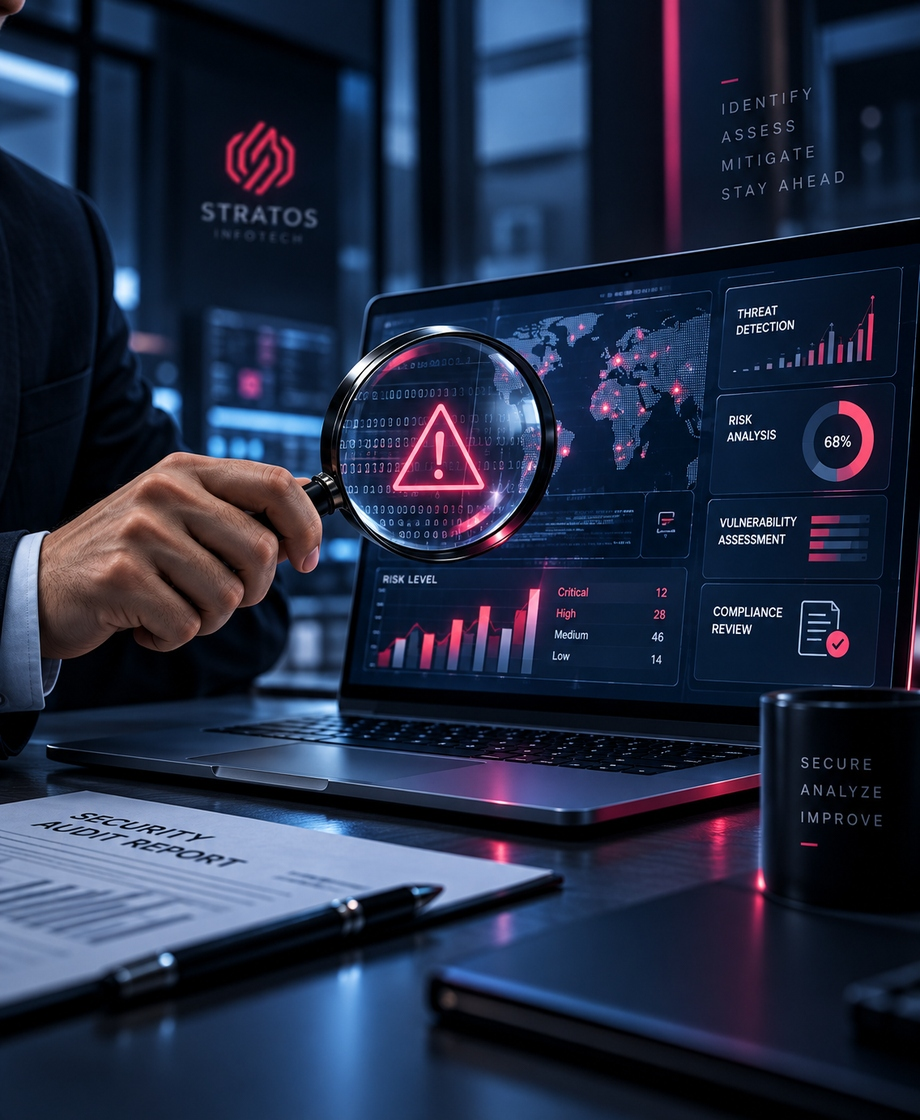
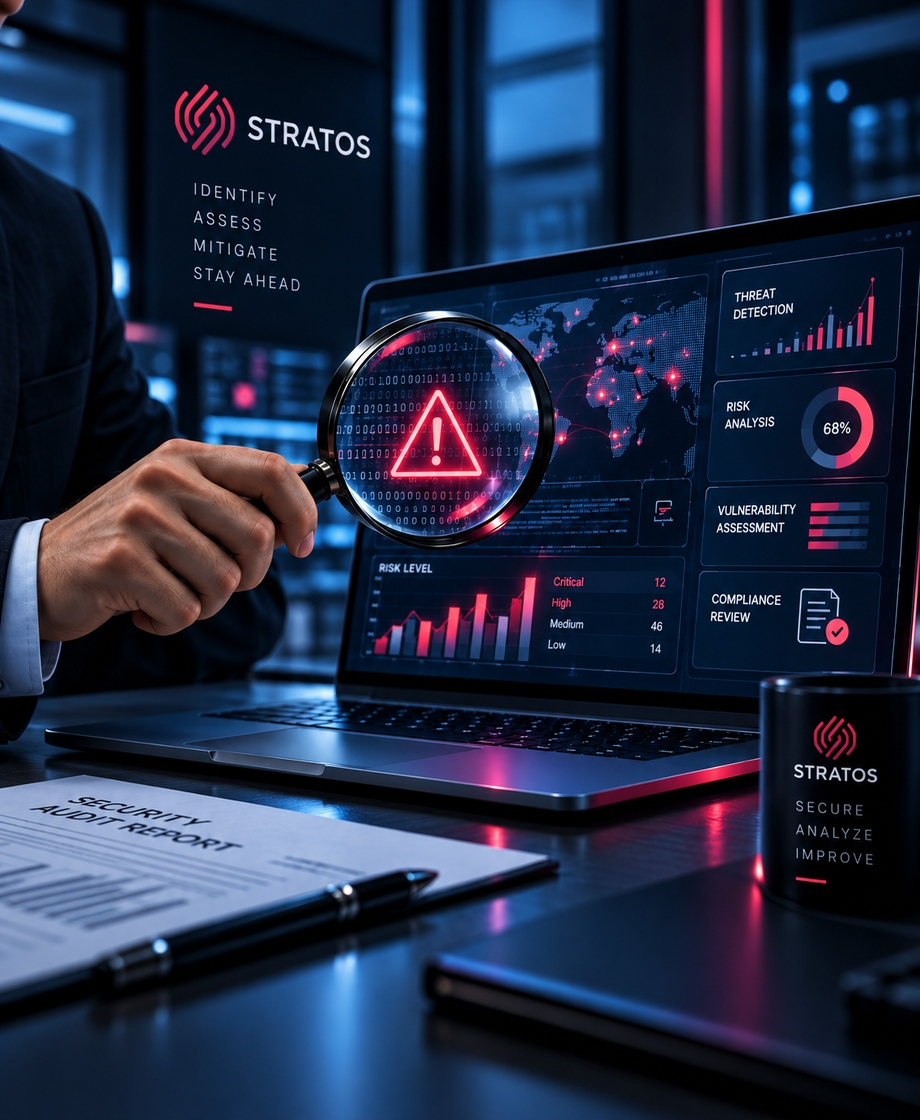
image change

diff --git a/src/components/home/why-stratos.tsx b/src/components/home/why-stratos.tsx
@@ -111,6 +111,76 @@ function NetworkPattern() {
   );
 }
 
+// Diagonals that run just past the 400x300 viewBox edges, so each comet
+// spends most of its short loop actually crossing the visible card.
+const SHOOTING_STARS = [
+  { d: "M -20 300 L 420 -40", duration: 4.2, delay: 0 },
+  { d: "M 420 230 L -40 -30", duration: 5, delay: -1.8 },
+  { d: "M -20 50 L 420 260", duration: 4.6, delay: -3 },
+];
+
+function ShootingStars() {
+  return (
+    <svg
+      viewBox="0 0 400 300"
+      preserveAspectRatio="xMidYMid slice"
+      className="pointer-events-none absolute inset-0 h-full w-full opacity-90"
+      aria-hidden
+    >
+      <defs>
+        <radialGradient id="shoot-head-glow" cx="50%" cy="50%" r="50%">
+          <stop offset="0%" stopColor="var(--color-brand-700)" stopOpacity="1" />
+          <stop offset="45%" stopColor="var(--color-brand-500)" stopOpacity="0.95" />
+          <stop offset="100%" stopColor="var(--color-brand-600)" stopOpacity="0" />
+        </radialGradient>
+        <filter id="shoot-blur" x="-150%" y="-150%" width="400%" height="400%">
+          <feGaussianBlur stdDeviation="1.4" />
+        </filter>
+        <linearGradient id="shoot-trail" x1="0" y1="0" x2="1" y2="0">
+          <stop offset="0%" stopColor="var(--color-brand-600)" stopOpacity="0" />
+          <stop offset="100%" stopColor="var(--color-brand-700)" stopOpacity="1" />
+        </linearGradient>
+      </defs>
+
+      {SHOOTING_STARS.map((star, i) => (
+        <path key={i} id={`shoot-path-${i}`} d={star.d} fill="none" stroke="none" />
+      ))}
+
+      {SHOOTING_STARS.map((star, i) => (
+        <g key={i} className="motion-spark">
+          <line
+            x1={-40}
+            y1={0}
+            x2={0}
+            y2={0}
+            stroke="url(#shoot-trail)"
+            strokeWidth={3}
+            strokeLinecap="round"
+          >
+            <animateMotion
+              dur={`${star.duration}s`}
+              begin={`${star.delay}s`}
+              repeatCount="indefinite"
+              rotate="auto"
+            >
+              <mpath href={`#shoot-path-${i}`} />
+            </animateMotion>
+          </line>
+          <circle r={4} fill="url(#shoot-head-glow)" filter="url(#shoot-blur)">
+            <animateMotion
+              dur={`${star.duration}s`}
+              begin={`${star.delay}s`}
+              repeatCount="indefinite"
+            >
+              <mpath href={`#shoot-path-${i}`} />
+            </animateMotion>
+          </circle>
+        </g>
+      ))}
+    </svg>
+  );
+}
+
 export function WhyStratos() {
   return (
     <section className="relative overflow-hidden bg-white py-24 sm:py-28">
@@ -149,6 +219,7 @@ export function WhyStratos() {
               <div className="pointer-events-none absolute inset-0 opacity-25 transition-opacity duration-500 group-hover:opacity-45">
                 <NetworkPattern />
               </div>
+              <ShootingStars />
 
               <ul className="relative grid grid-cols-1 gap-2 sm:grid-cols-2">
                 {values.map((value) => (

diff --git a/src/components/about/products-grid.tsx b/src/components/about/products-grid.tsx
@@ -6,15 +6,15 @@ import { Package } from "lucide-react";
 import { cn } from "@/lib/cn";
 
 const CIRCUIT_TRACES = [
-  { d: "M 300 40 H 170 V 95 H 78", duration: 4.2 },
-  { d: "M 300 120 H 210 V 161 H 78", duration: 5.1 },
+  { d: "M 260 18 H 140 V 52 H 42", duration: 4.2 },
+  { d: "M 260 88 H 190 V 52 H 42", duration: 5.1 },
 ];
 
 const CIRCUIT_PADS = [
-  { x: 300, y: 40 },
-  { x: 170, y: 95 },
-  { x: 300, y: 120 },
-  { x: 210, y: 161 },
+  { x: 260, y: 18 },
+  { x: 140, y: 52 },
+  { x: 260, y: 88 },
+  { x: 190, y: 52 },
 ];
 
 function CircuitDecoration({
@@ -29,18 +29,26 @@ function CircuitDecoration({
 
   return (
     <svg
-      viewBox="0 0 300 220"
+      viewBox="0 0 260 110"
       className={cn(
-        "pointer-events-none absolute h-56 w-72",
-        mirror ? "top-0 left-0 -scale-x-100" : "right-0 bottom-0",
+        "pointer-events-none absolute bottom-0 h-24 w-56",
+        mirror ? "left-0 -scale-x-100" : "right-0",
       )}
       aria-hidden
     >
       <defs>
         <radialGradient id={glowId} cx="50%" cy="50%" r="50%">
           <stop offset="0%" stopColor="#ffffff" stopOpacity="0.95" />
-          <stop offset="35%" stopColor="var(--color-brand-300)" stopOpacity="0.85" />
-          <stop offset="100%" stopColor="var(--color-brand-600)" stopOpacity="0" />
+          <stop
+            offset="35%"
+            stopColor="var(--color-brand-300)"
+            stopOpacity="0.85"
+          />
+          <stop
+            offset="100%"
+            stopColor="var(--color-brand-600)"
+            stopOpacity="0"
+          />
         </radialGradient>
         <filter id={blurId} x="-150%" y="-150%" width="400%" height="400%">
           <feGaussianBlur stdDeviation="2.2" />
@@ -48,11 +56,11 @@ function CircuitDecoration({
       </defs>
 
       <rect
-        x={38}
-        y={146}
-        width={30}
-        height={30}
-        rx={4}
+        x={18}
+        y={40}
+        width={24}
+        height={24}
+        rx={3}
         fill="none"
         stroke="var(--color-navy-700)"
         strokeOpacity={0.35}
@@ -118,6 +126,7 @@ export function ProductsGrid() {
       <Container className="relative">
         <SectionHeading
           eyebrow="Wholesale distribution"
+    
           title="Technology products, sourced from trusted manufacturers"
           description="Alongside our services, Stratos is a premier wholesale supplier of technical products and equipment, collaborating with leading vendors to offer reliable, high-performance hardware."
         />

diff --git a/src/components/about/values-grid.tsx b/src/components/about/values-grid.tsx
@@ -14,13 +14,13 @@ function OrbitRings() {
       <div className="absolute inset-30 rounded-full border border-navy-700/25" />
 
       <div className="animate-orbit absolute inset-0">
-        <span className="absolute top-0 left-1/2 h-3.5 w-3.5 -translate-x-1/2 rounded-full bg-gradient-brand shadow-[0_0_18px_4px_rgba(232,68,95,0.55)]" />
+        <span className="absolute top-0 left-1/2 h-3.5 w-3.5 -translate-x-1/2 -translate-y-1/2 rounded-full bg-gradient-brand shadow-[0_0_18px_4px_rgba(232,68,95,0.55)]" />
       </div>
       <div className="animate-orbit-reverse absolute inset-15">
-        <span className="absolute top-0 left-1/2 h-3 w-3 -translate-x-1/2 rounded-full bg-brand-500 shadow-[0_0_12px_3px_rgba(232,68,95,0.4)]" />
+        <span className="absolute top-0 left-1/2 h-3 w-3 -translate-x-1/2 -translate-y-1/2 rounded-full bg-brand-500 shadow-[0_0_12px_3px_rgba(232,68,95,0.4)]" />
       </div>
       <div className="animate-orbit-slow absolute inset-30">
-        <span className="absolute top-0 left-1/2 h-2.5 w-2.5 -translate-x-1/2 rounded-full bg-navy-700" />
+        <span className="absolute top-0 left-1/2 h-2.5 w-2.5 -translate-x-1/2 -translate-y-1/2 rounded-full bg-navy-700" />
       </div>
     </div>
   );

diff --git a/src/components/ui/section-heading.tsx b/src/components/ui/section-heading.tsx
@@ -12,7 +12,7 @@ export function Eyebrow({
   return (
     <span
       className={cn(
-        "inline-flex items-center gap-2 rounded-full border px-3.5 py-1 text-xs font-semibold uppercase tracking-[0.16em]",
+        "inline-flex items-center gap-2 w-fit rounded-full border px-3.5 py-1 text-xs font-semibold uppercase tracking-[0.16em]",
         tone === "ink"
           ? "border-ink-900/10 bg-ink-900/[0.03] text-brand-700"
           : "border-white/15 bg-white/5 text-brand-300",
@@ -44,7 +44,7 @@ export function SectionHeading({
     <div
       className={cn(
         "flex flex-col gap-4",
-        align === "center" && "items-center text-center",
+        align === "center" && "items-center  text-center",
         className,
       )}
     >

diff --git a/src/components/home/hero-swiper.tsx b/src/components/home/hero-swiper.tsx
@@ -31,7 +31,7 @@ export function HeroSwiper() {
 
     const id = setInterval(() => {
       setIndex((i) => (i + 1) % slides.length);
-    }, 5000);
+    }, 3000);
     return () => clearInterval(id);
   }, [paused]);
 
